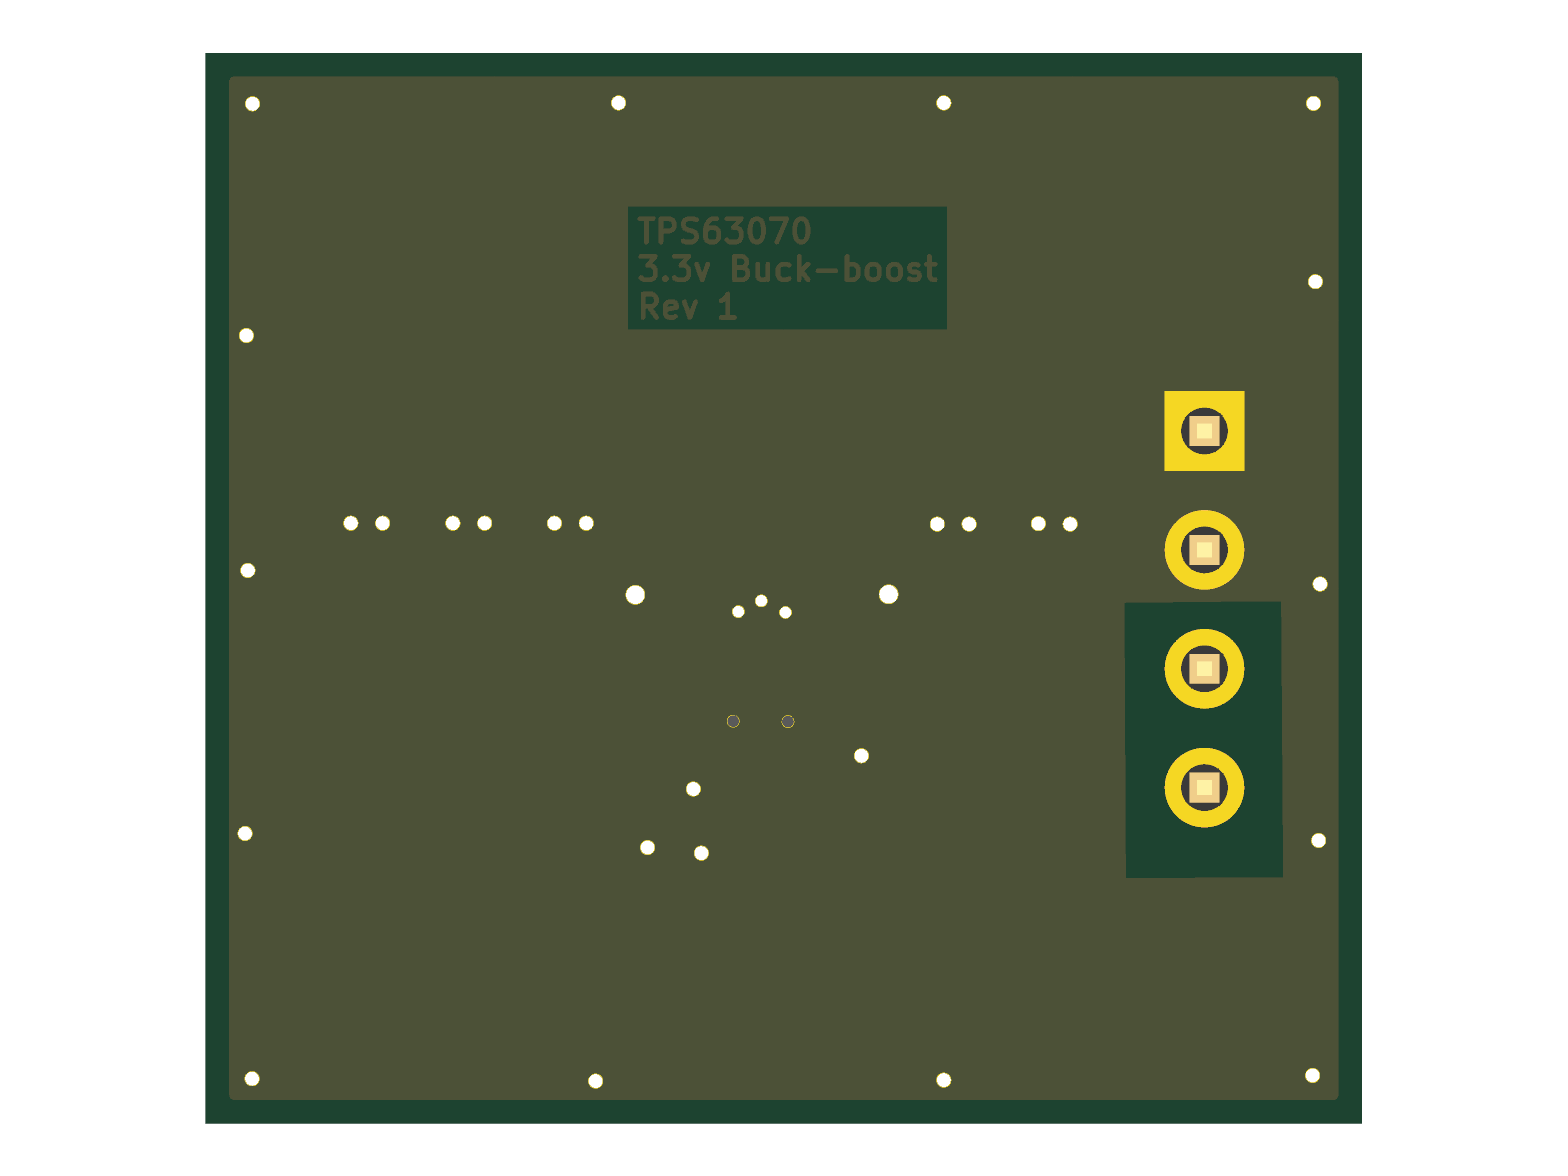
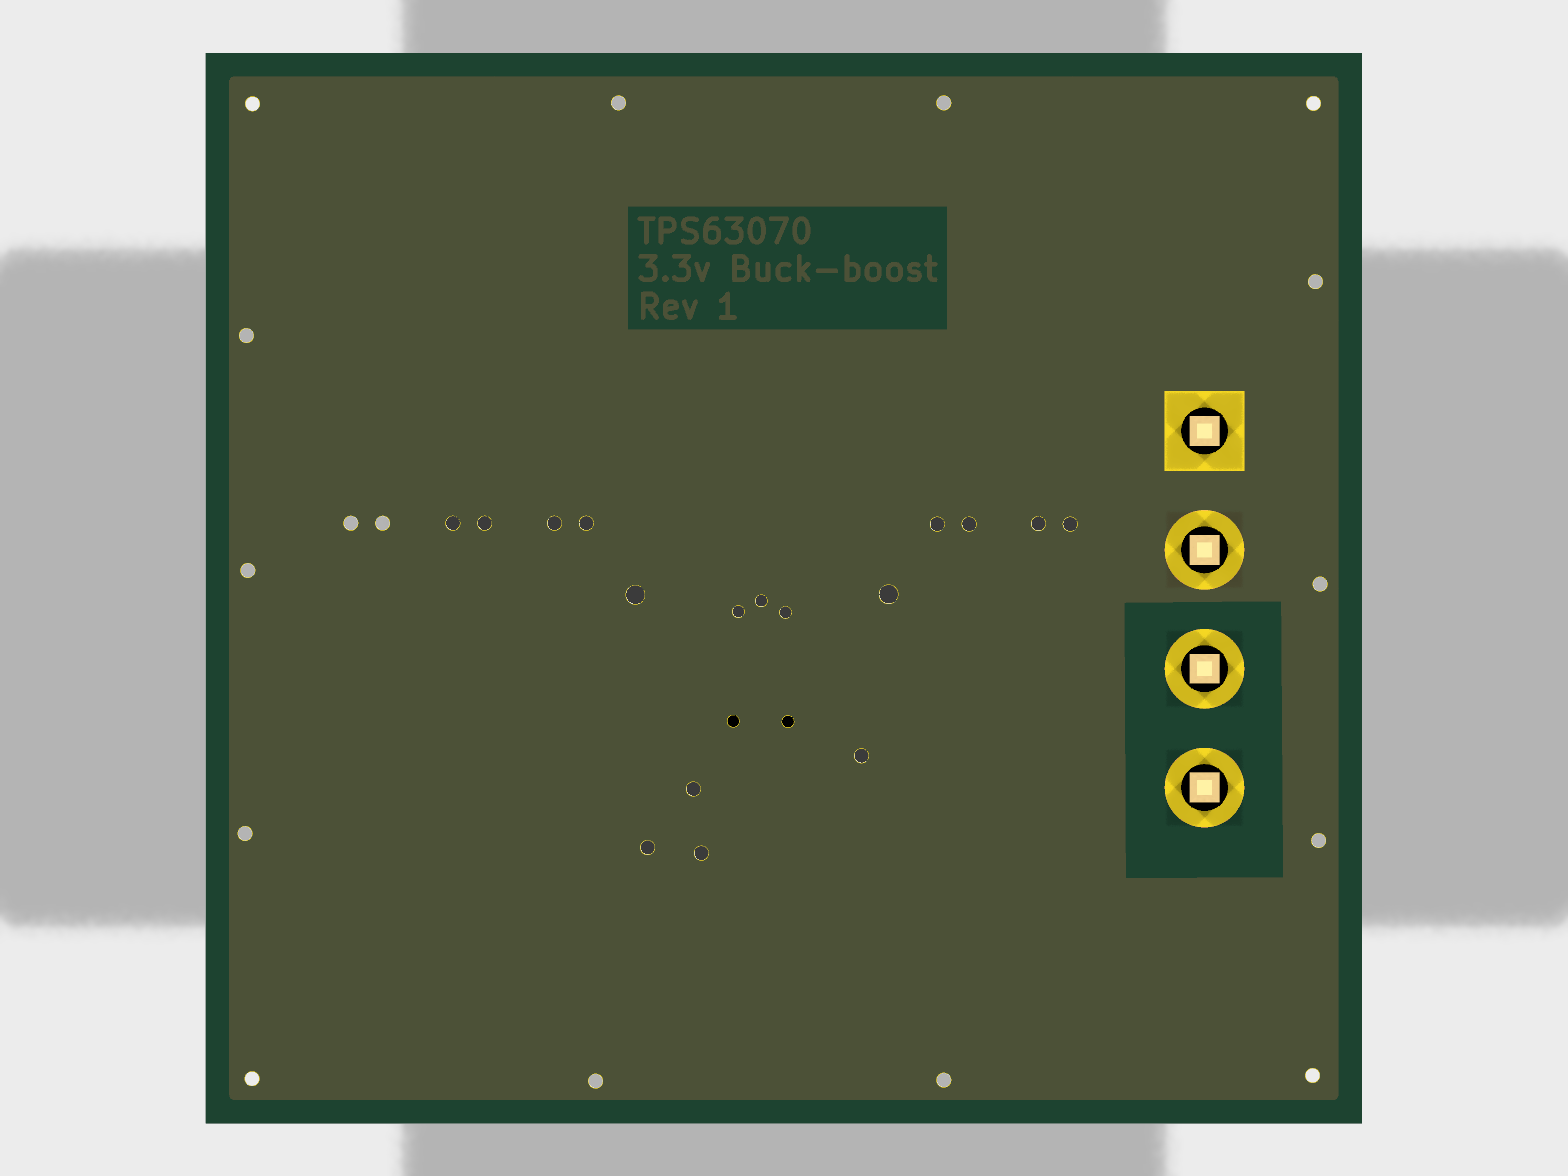
fix: simplify board images to schematic + top/bottom with silkscreen
Drop angled 3D perspective renders. Use --quality high for PCB
top/bottom so silkscreen reference designators are visible.

Made-with: Cursor

diff --git a/scripts/ci/update-board-readmes.py b/scripts/ci/update-board-readmes.py
@@ -75,28 +75,8 @@ def _build_images_section(board_name: str, docs_dir: Path) -> str:
                   divider.rstrip(" | ") + " |",
                   images.rstrip(" | ") + " |", ""]
 
-    front_3d = docs_dir / "3d-front.png"
-    back_3d = docs_dir / "3d-back.png"
-    if front_3d.exists() or back_3d.exists():
-        lines += ["### 3D Render", ""]
-        header = "| "
-        divider = "| "
-        images = "| "
-        if front_3d.exists():
-            header += "Front | "
-            divider += ":---: | "
-            images += "![Front](docs/3d-front.png) | "
-        if back_3d.exists():
-            header += "Back | "
-            divider += ":---: | "
-            images += "![Back](docs/3d-back.png) | "
-        lines += [header.rstrip(" | ") + " |",
-                  divider.rstrip(" | ") + " |",
-                  images.rstrip(" | ") + " |", ""]
-
     if not any((docs_dir / f).exists() for f in [
         "schematic.svg", "pcb-top.png", "pcb-bottom.png",
-        "3d-front.png", "3d-back.png",
     ]):
         lines += ["_No images generated yet. Images are created on merge to main._", ""]
 

diff --git a/boards/tps63070-breakout/README.md b/boards/tps63070-breakout/README.md
@@ -51,12 +51,6 @@ _Auto-generated on merge to main._
 | :---: | :---: |
 | ![Top](docs/pcb-top.png) | ![Bottom](docs/pcb-bottom.png) |
 
-### 3D Render
-
-| Front | Back |
-| :---: | :---: |
-| ![Front](docs/3d-front.png) | ![Back](docs/3d-back.png) |
-
 <!-- board-images-end -->
 
 <!-- validation-summary-start -->
